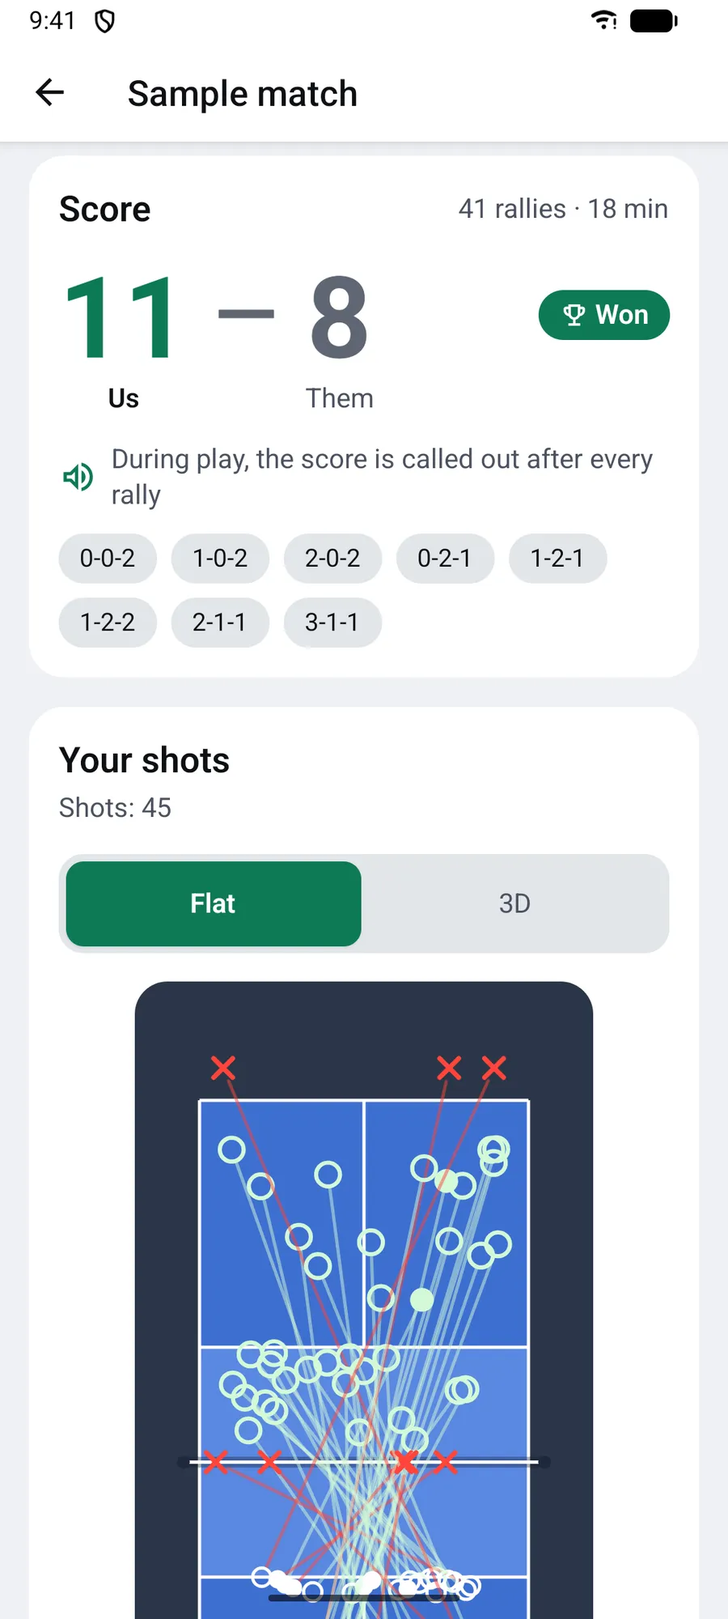
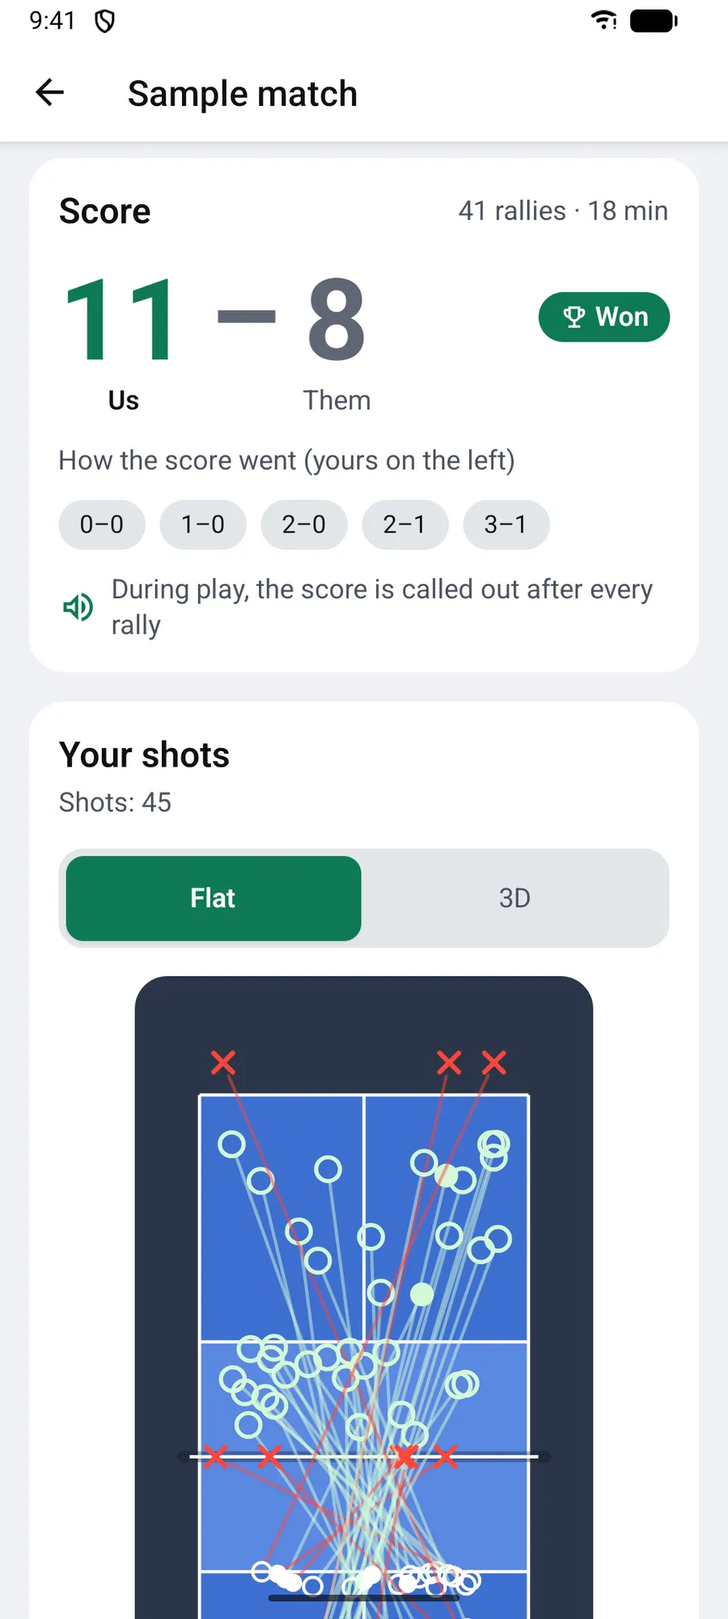
Pickle Up のページの一番上の背景を、エメラルドからティールのやわらかい光と点の格子にし、コートの上に打球の軌道（イン・ミス）を重ねる。スマホの横に、サンプルの数字（イン率 82%・ネットの上 +19cm）の小さなカードを浮かせる。見出しの下の文を「失点したショットが分かれば、意識と練習が変わる。撮影動画から自分の得意や苦手を見つけ、次の練習に役立てることができます。」にし、スコアの画像を「自分」・得点の流れ（自分が左）の画面で撮り直す
Claude-Session: https://claude.ai/code/session_01RcorTwHLSLi3TqpLhpw8hm

diff --git a/ja/apps/pickle-up/index.html b/ja/apps/pickle-up/index.html
@@ -27,7 +27,7 @@
 <link rel="preconnect" href="https://fonts.gstatic.com" crossorigin>
 <link href="https://fonts.googleapis.com/css2?family=Inter:wght@400;500;600;700;800&family=Noto+Sans+JP:wght@400;500;700;800&display=swap" rel="stylesheet">
 <link rel="stylesheet" href="https://cdnjs.cloudflare.com/ajax/libs/remixicon/4.6.0/remixicon.min.css">
-<link rel="stylesheet" href="/assets/css/apps/pickle-up.css?v=8">
+<link rel="stylesheet" href="/assets/css/apps/pickle-up.css?v=9">
 </head>
 <body class="page-home">
 <header class="app-header">
@@ -59,15 +59,17 @@
 </header>
 <main>
 <section class="hero">
-<svg class="court-lines" viewBox="0 0 1200 700" preserveAspectRatio="xMidYMid slice" aria-hidden="true" focusable="false"><path d="M354 565 L682 783 M827 217 L1070 288 M354 565 L827 217 M682 783 L1070 288 M573 403 L871 541 M715 299 L985 397 M500 662 L709 466 M840 344 L941 250" fill="none" stroke="currentColor" stroke-width="2"/><path d="M633 303 L957 426" fill="none" stroke="currentColor" stroke-width="4" stroke-linecap="round"/></svg>
+<svg class="court-lines with-shots" viewBox="0 0 1200 700" preserveAspectRatio="xMidYMid slice" aria-hidden="true" focusable="false"><path class="lines" d="M354 565 L682 783 M827 217 L1070 288 M354 565 L827 217 M682 783 L1070 288 M573 403 L871 541 M715 299 L985 397 M500 662 L709 466 M840 344 L941 250" fill="none" stroke="currentColor" stroke-width="2"/><path class="lines" d="M633 303 L957 426" fill="none" stroke="currentColor" stroke-width="4" stroke-linecap="round"/><defs><linearGradient id="arcFade" x1="0" y1="1" x2="0" y2="0"><stop offset="0" stop-color="#2DD4BF" stop-opacity=".25"/><stop offset="1" stop-color="#6EE7B7" stop-opacity=".9"/></linearGradient></defs><g class="flights"><path class="arc" d="M448 508 L475 482 L501 458 L528 436 L555 415 L581 396 L607 379 L632 363 L657 349 L682 337 L706 326 L729 317 L752 309 L774 303 L795 298 L815 294 L835 292 L853 291 L871 291 L889 293 L905 295 L921 298 L935 303 L949 308 L963 313"/><path class="arc" d="M694 570 L698 543 L703 519 L707 496 L711 475 L715 455 L719 436 L723 419 L727 404 L731 390 L734 377 L738 366 L741 356 L745 347 L748 339 L751 333 L754 327 L757 323 L760 319 L762 317 L765 315 L767 314 L770 314 L772 314 L774 315"/><path class="arc" d="M496 567 L521 529 L547 494 L571 460 L596 430 L620 402 L644 376 L666 353 L688 333 L710 315 L730 299 L750 286 L769 274 L787 265 L804 258 L820 252 L836 248 L850 246 L864 245 L877 246 L889 248 L901 251 L912 255 L922 260 L931 267"/><path class="arc" d="M801 492 L801 477 L801 462 L800 448 L800 435 L799 423 L799 411 L798 401 L798 392 L797 383 L797 375 L797 368 L796 362 L796 357 L795 352 L795 348 L794 345 L794 342 L794 340 L793 339 L793 338 L792 338 L792 339 L792 340 L791 341"/><path class="arc" d="M531 422 L552 407 L573 392 L595 378 L616 365 L637 354 L658 344 L680 335 L701 327 L722 320 L742 314 L762 310 L782 307 L802 304 L821 303 L840 303 L858 304 L876 306 L893 309 L909 313 L925 318 L941 323 L956 329 L970 336 L983 344"/><path class="arc" d="M593 545 L607 509 L621 475 L635 443 L648 414 L661 388 L674 363 L686 341 L698 322 L710 305 L721 289 L732 276 L742 265 L752 256 L761 248 L770 242 L779 237 L787 235 L795 233 L802 233 L809 233 L816 235 L822 238 L828 242 L833 246"/><path class="arc" d="M767 445 L774 436 L781 427 L788 420 L795 413 L802 406 L808 400 L815 395 L822 390 L828 386 L834 383 L841 380 L847 378 L853 376 L859 375 L864 374 L870 374 L876 375 L881 376 L886 378 L891 380 L896 382 L901 385 L905 388 L910 392"/><path class="arc-miss" d="M466 533 L494 493 L522 455 L549 420 L576 387 L602 358 L628 331 L652 307 L676 286 L699 268 L721 252 L742 238 L763 227 L782 218 L800 211 L817 206 L834 202 L849 201 L864 201 L877 202 L890 205 L902 209 L913 213 L924 219 L934 226"/><path class="arc-miss" d="M689 431 L694 427 L699 424 L705 420 L710 417 L715 414 L720 411 L725 408 L731 405 L736 403 L741 400 L746 398 L751 396 L756 394 L760 393 L765 391 L770 390 L775 388 L779 387 L784 386 L789 386 L793 385 L798 384 L802 384 L806 383"/><circle class="end" cx="963" cy="313" r="6"/><circle class="end" cx="774" cy="315" r="6"/><circle class="end" cx="931" cy="267" r="6"/><circle class="end" cx="791" cy="341" r="6"/><circle class="end" cx="983" cy="344" r="6"/><circle class="end" cx="833" cy="246" r="6"/><circle class="end" cx="910" cy="392" r="6"/><path class="end-miss" d="M928 220 L940 232 M940 220 L928 232"/><path class="end-miss" d="M800 377 L812 389 M812 377 L800 389"/></g></svg>
 <div class="wrap hero-grid">
 <div class="hero-copy">
 <h1><span class="phrase">撮るだけで</span><span class="phrase">次の試合が変わる</span></h1>
-<p class="lead">失点したショットが分かれば、意識・練習が変わる。撮影した動画から得意や苦手を見つけ、次の練習に役立てることができます。</p>
+<p class="lead">失点したショットが分かれば、意識と練習が変わる。撮影動画から自分の得意や苦手を見つけ、次の練習に役立てることができます。</p>
 <div class="stores stores-hero"><span class="store"><img src="/images/apps/badges/app-store-ja.svg" alt="App Store からダウンロード" width="131" height="48"></span><span class="store"><img src="/images/apps/badges/google-play-ja.png" alt="Google Play で手に入れよう" width="161" height="48"></span></div><p class="stores-note">近日公開</p>
 </div>
 <div class="hero-media">
 <figure class="phone"><img src="/images/apps/pickle-up/screens/3d-all-ja.webp" alt="サンプルの試合の画面。45本の打球を立体のコートに描き、イン率82%、ネットからの高さの中央値 +19cm を表示している" width="300" height="667" fetchpriority="high"></figure>
+<div class="hero-stat hero-stat-in" aria-hidden="true"><span class="hero-stat-label">イン率</span><span class="hero-stat-value">82%</span><span class="hero-stat-bar"><span style="width:82%"></span></span></div>
+<div class="hero-stat hero-stat-net" aria-hidden="true"><span class="hero-stat-label">ネットの上の高さ（中央値）</span><span class="hero-stat-value">+19 cm</span><svg class="hero-stat-bars" viewBox="0 0 84 28"><rect x="0" y="20" width="10" height="8" rx="2"/><rect x="12" y="12" width="10" height="16" rx="2"/><rect x="24" y="4" width="10" height="24" rx="2"/><rect x="36" y="0" width="10" height="28" rx="2"/><rect x="48" y="9" width="10" height="19" rx="2"/><rect x="60" y="16" width="10" height="12" rx="2"/><rect x="72" y="22" width="10" height="6" rx="2"/></svg></div>
 </div>
 </div>
 </section>
@@ -75,7 +77,7 @@
 <div class="wrap">
 <h2 class="section-title">Pickle Up でできること</h2>
 <article class="feature">
-<div class="feature-media"><div class="carousel carousel-single"><div class="carousel-track"><figure class="slide"><div class="phone"><img src="/images/apps/pickle-up/screens/score-ja.webp" alt="試合の画面。自分たち11点・相手8点で勝ちの表示と、読み上げたスコアコールの一覧" width="300" height="667" loading="lazy" decoding="async"></div><figcaption>どちらが自分たちで、勝ったか負けたかがひと目で分かります。下は試合中に読み上げたスコアです。</figcaption></figure></div></div></div>
+<div class="feature-media"><div class="carousel carousel-single"><div class="carousel-track"><figure class="slide"><div class="phone"><img src="/images/apps/pickle-up/screens/score-ja.webp" alt="試合の画面。自分11点・相手8点で勝ちの表示と、自分の点を左にした得点の流れ" width="300" height="667" loading="lazy" decoding="async"></div><figcaption>どちらが自分で、勝ったか負けたかがひと目で分かります。得点の流れも、いつも自分の点が左です。</figcaption></figure></div></div></div>
 <div class="feature-copy">
 <h3><span class="phrase">スコアはアプリが数えて、</span><span class="phrase">声でコールする</span></h3>
 <p>ラリーが終わるたびに「1-0-2」のようにスコアをコールします。サーブの順番もアプリが覚えているので、プレーを止めて数え直すことはありません。終わった試合はスコアと一緒に記録に残ります。</p>
@@ -119,7 +121,7 @@
 </div>
 </section>
 <section id="download" class="cta">
-<svg class="court-lines" viewBox="0 0 1200 700" preserveAspectRatio="xMidYMid slice" aria-hidden="true" focusable="false"><path d="M354 565 L682 783 M827 217 L1070 288 M354 565 L827 217 M682 783 L1070 288 M573 403 L871 541 M715 299 L985 397 M500 662 L709 466 M840 344 L941 250" fill="none" stroke="currentColor" stroke-width="2"/><path d="M633 303 L957 426" fill="none" stroke="currentColor" stroke-width="4" stroke-linecap="round"/></svg>
+<svg class="court-lines" viewBox="0 0 1200 700" preserveAspectRatio="xMidYMid slice" aria-hidden="true" focusable="false"><path class="lines" d="M354 565 L682 783 M827 217 L1070 288 M354 565 L827 217 M682 783 L1070 288 M573 403 L871 541 M715 299 L985 397 M500 662 L709 466 M840 344 L941 250" fill="none" stroke="currentColor" stroke-width="2"/><path class="lines" d="M633 303 L957 426" fill="none" stroke="currentColor" stroke-width="4" stroke-linecap="round"/></svg>
 <div class="wrap cta-inner">
 <img class="cta-icon" src="/images/apps/pickle-up/icon-256.png" alt="" width="96" height="96">
 <h2><span class="phrase">次の試合から、</span><span class="phrase">分析してみましょう。</span></h2>
@@ -158,9 +160,9 @@
 </div>
 </div>
 </footer>
-<script src="/assets/js/app-menu.js?v=8" defer></script>
-<script src="/assets/js/app-lang.js?v=8" defer></script>
+<script src="/assets/js/app-menu.js?v=9" defer></script>
+<script src="/assets/js/app-lang.js?v=9" defer></script>
 <script>document.querySelectorAll('[data-year]').forEach(function (el) { el.textContent = new Date().getFullYear(); });</script>
-<script src="/assets/js/app-carousel.js?v=8" defer></script>
+<script src="/assets/js/app-carousel.js?v=9" defer></script>
 </body>
 </html>

diff --git a/en/apps/pickle-up/index.html b/en/apps/pickle-up/index.html
@@ -27,7 +27,7 @@
 <link rel="preconnect" href="https://fonts.gstatic.com" crossorigin>
 <link href="https://fonts.googleapis.com/css2?family=Inter:wght@400;500;600;700;800&family=Noto+Sans+JP:wght@400;500;700;800&display=swap" rel="stylesheet">
 <link rel="stylesheet" href="https://cdnjs.cloudflare.com/ajax/libs/remixicon/4.6.0/remixicon.min.css">
-<link rel="stylesheet" href="/assets/css/apps/pickle-up.css?v=8">
+<link rel="stylesheet" href="/assets/css/apps/pickle-up.css?v=9">
 </head>
 <body class="page-home">
 <header class="app-header">
@@ -59,7 +59,7 @@
 </header>
 <main>
 <section class="hero">
-<svg class="court-lines" viewBox="0 0 1200 700" preserveAspectRatio="xMidYMid slice" aria-hidden="true" focusable="false"><path d="M354 565 L682 783 M827 217 L1070 288 M354 565 L827 217 M682 783 L1070 288 M573 403 L871 541 M715 299 L985 397 M500 662 L709 466 M840 344 L941 250" fill="none" stroke="currentColor" stroke-width="2"/><path d="M633 303 L957 426" fill="none" stroke="currentColor" stroke-width="4" stroke-linecap="round"/></svg>
+<svg class="court-lines with-shots" viewBox="0 0 1200 700" preserveAspectRatio="xMidYMid slice" aria-hidden="true" focusable="false"><path class="lines" d="M354 565 L682 783 M827 217 L1070 288 M354 565 L827 217 M682 783 L1070 288 M573 403 L871 541 M715 299 L985 397 M500 662 L709 466 M840 344 L941 250" fill="none" stroke="currentColor" stroke-width="2"/><path class="lines" d="M633 303 L957 426" fill="none" stroke="currentColor" stroke-width="4" stroke-linecap="round"/><defs><linearGradient id="arcFade" x1="0" y1="1" x2="0" y2="0"><stop offset="0" stop-color="#2DD4BF" stop-opacity=".25"/><stop offset="1" stop-color="#6EE7B7" stop-opacity=".9"/></linearGradient></defs><g class="flights"><path class="arc" d="M448 508 L475 482 L501 458 L528 436 L555 415 L581 396 L607 379 L632 363 L657 349 L682 337 L706 326 L729 317 L752 309 L774 303 L795 298 L815 294 L835 292 L853 291 L871 291 L889 293 L905 295 L921 298 L935 303 L949 308 L963 313"/><path class="arc" d="M694 570 L698 543 L703 519 L707 496 L711 475 L715 455 L719 436 L723 419 L727 404 L731 390 L734 377 L738 366 L741 356 L745 347 L748 339 L751 333 L754 327 L757 323 L760 319 L762 317 L765 315 L767 314 L770 314 L772 314 L774 315"/><path class="arc" d="M496 567 L521 529 L547 494 L571 460 L596 430 L620 402 L644 376 L666 353 L688 333 L710 315 L730 299 L750 286 L769 274 L787 265 L804 258 L820 252 L836 248 L850 246 L864 245 L877 246 L889 248 L901 251 L912 255 L922 260 L931 267"/><path class="arc" d="M801 492 L801 477 L801 462 L800 448 L800 435 L799 423 L799 411 L798 401 L798 392 L797 383 L797 375 L797 368 L796 362 L796 357 L795 352 L795 348 L794 345 L794 342 L794 340 L793 339 L793 338 L792 338 L792 339 L792 340 L791 341"/><path class="arc" d="M531 422 L552 407 L573 392 L595 378 L616 365 L637 354 L658 344 L680 335 L701 327 L722 320 L742 314 L762 310 L782 307 L802 304 L821 303 L840 303 L858 304 L876 306 L893 309 L909 313 L925 318 L941 323 L956 329 L970 336 L983 344"/><path class="arc" d="M593 545 L607 509 L621 475 L635 443 L648 414 L661 388 L674 363 L686 341 L698 322 L710 305 L721 289 L732 276 L742 265 L752 256 L761 248 L770 242 L779 237 L787 235 L795 233 L802 233 L809 233 L816 235 L822 238 L828 242 L833 246"/><path class="arc" d="M767 445 L774 436 L781 427 L788 420 L795 413 L802 406 L808 400 L815 395 L822 390 L828 386 L834 383 L841 380 L847 378 L853 376 L859 375 L864 374 L870 374 L876 375 L881 376 L886 378 L891 380 L896 382 L901 385 L905 388 L910 392"/><path class="arc-miss" d="M466 533 L494 493 L522 455 L549 420 L576 387 L602 358 L628 331 L652 307 L676 286 L699 268 L721 252 L742 238 L763 227 L782 218 L800 211 L817 206 L834 202 L849 201 L864 201 L877 202 L890 205 L902 209 L913 213 L924 219 L934 226"/><path class="arc-miss" d="M689 431 L694 427 L699 424 L705 420 L710 417 L715 414 L720 411 L725 408 L731 405 L736 403 L741 400 L746 398 L751 396 L756 394 L760 393 L765 391 L770 390 L775 388 L779 387 L784 386 L789 386 L793 385 L798 384 L802 384 L806 383"/><circle class="end" cx="963" cy="313" r="6"/><circle class="end" cx="774" cy="315" r="6"/><circle class="end" cx="931" cy="267" r="6"/><circle class="end" cx="791" cy="341" r="6"/><circle class="end" cx="983" cy="344" r="6"/><circle class="end" cx="833" cy="246" r="6"/><circle class="end" cx="910" cy="392" r="6"/><path class="end-miss" d="M928 220 L940 232 M940 220 L928 232"/><path class="end-miss" d="M800 377 L812 389 M812 377 L800 389"/></g></svg>
 <div class="wrap hero-grid">
 <div class="hero-copy">
 <h1><span class="phrase">Just film it.</span><span class="phrase">Play better next game.</span></h1>
@@ -68,6 +68,8 @@
 </div>
 <div class="hero-media">
 <figure class="phone"><img src="/images/apps/pickle-up/screens/3d-all-en.webp" alt="The sample match: 45 shots drawn on a 3D court, with an 82% in rate and a median height over the net of +19 cm" width="300" height="667" fetchpriority="high"></figure>
+<div class="hero-stat hero-stat-in" aria-hidden="true"><span class="hero-stat-label">In rate</span><span class="hero-stat-value">82%</span><span class="hero-stat-bar"><span style="width:82%"></span></span></div>
+<div class="hero-stat hero-stat-net" aria-hidden="true"><span class="hero-stat-label">Height over the net (median)</span><span class="hero-stat-value">+19 cm</span><svg class="hero-stat-bars" viewBox="0 0 84 28"><rect x="0" y="20" width="10" height="8" rx="2"/><rect x="12" y="12" width="10" height="16" rx="2"/><rect x="24" y="4" width="10" height="24" rx="2"/><rect x="36" y="0" width="10" height="28" rx="2"/><rect x="48" y="9" width="10" height="19" rx="2"/><rect x="60" y="16" width="10" height="12" rx="2"/><rect x="72" y="22" width="10" height="6" rx="2"/></svg></div>
 </div>
 </div>
 </section>
@@ -75,7 +77,7 @@
 <div class="wrap">
 <h2 class="section-title">What it does</h2>
 <article class="feature">
-<div class="feature-media"><div class="carousel carousel-single"><div class="carousel-track"><figure class="slide"><div class="phone"><img src="/images/apps/pickle-up/screens/score-en.webp" alt="The match screen: won 11–8, with the calls made during the game" width="300" height="667" loading="lazy" decoding="async"></div><figcaption>See at a glance which side is yours and whether you won. Below are the calls made during play.</figcaption></figure></div></div></div>
+<div class="feature-media"><div class="carousel carousel-single"><div class="carousel-track"><figure class="slide"><div class="phone"><img src="/images/apps/pickle-up/screens/score-en.webp" alt="The match screen: won 11–8, with how the score went, yours on the left" width="300" height="667" loading="lazy" decoding="async"></div><figcaption>See at a glance which side is yours and whether you won. The score’s progress keeps yours on the left too.</figcaption></figure></div></div></div>
 <div class="feature-copy">
 <h3>It keeps score and calls it out</h3>
 <p>After every rally it calls the score, like “1-0-2”. It keeps track of who serves, so nobody has to stop and recount. When the game ends, the score goes into your history.</p>
@@ -119,7 +121,7 @@
 </div>
 </section>
 <section id="download" class="cta">
-<svg class="court-lines" viewBox="0 0 1200 700" preserveAspectRatio="xMidYMid slice" aria-hidden="true" focusable="false"><path d="M354 565 L682 783 M827 217 L1070 288 M354 565 L827 217 M682 783 L1070 288 M573 403 L871 541 M715 299 L985 397 M500 662 L709 466 M840 344 L941 250" fill="none" stroke="currentColor" stroke-width="2"/><path d="M633 303 L957 426" fill="none" stroke="currentColor" stroke-width="4" stroke-linecap="round"/></svg>
+<svg class="court-lines" viewBox="0 0 1200 700" preserveAspectRatio="xMidYMid slice" aria-hidden="true" focusable="false"><path class="lines" d="M354 565 L682 783 M827 217 L1070 288 M354 565 L827 217 M682 783 L1070 288 M573 403 L871 541 M715 299 L985 397 M500 662 L709 466 M840 344 L941 250" fill="none" stroke="currentColor" stroke-width="2"/><path class="lines" d="M633 303 L957 426" fill="none" stroke="currentColor" stroke-width="4" stroke-linecap="round"/></svg>
 <div class="wrap cta-inner">
 <img class="cta-icon" src="/images/apps/pickle-up/icon-256.png" alt="" width="96" height="96">
 <h2>Try it at your next game.</h2>
@@ -158,9 +160,9 @@
 </div>
 </div>
 </footer>
-<script src="/assets/js/app-menu.js?v=8" defer></script>
-<script src="/assets/js/app-lang.js?v=8" defer></script>
+<script src="/assets/js/app-menu.js?v=9" defer></script>
+<script src="/assets/js/app-lang.js?v=9" defer></script>
 <script>document.querySelectorAll('[data-year]').forEach(function (el) { el.textContent = new Date().getFullYear(); });</script>
-<script src="/assets/js/app-carousel.js?v=8" defer></script>
+<script src="/assets/js/app-carousel.js?v=9" defer></script>
 </body>
 </html>

diff --git a/assets/css/apps/pickle-up.css b/assets/css/apps/pickle-up.css
@@ -73,6 +73,36 @@ img { max-width: 100%; height: auto; }
 /* Hero: dark, with the court's lines behind */
 .hero, .cta, .section-dark { position: relative; overflow: hidden; background: var(--ink); color: var(--on-ink); }
 .court-lines { position: absolute; inset: 0; width: 100%; height: 100%; color: var(--mint); opacity: .09; pointer-events: none; }
+/* The hero: a soft emerald-to-teal light behind the phone and a faint dot grid, the court with a few shot
+   flights over it, and two of the sample's numbers floating beside the phone. */
+.hero { background:
+  radial-gradient(55% 75% at 80% 45%, rgba(16,185,129,.38), rgba(16,185,129,0) 70%),
+  radial-gradient(35% 45% at 100% 100%, rgba(45,212,191,.22), rgba(45,212,191,0) 70%),
+  radial-gradient(45% 55% at 0% 0%, rgba(56,189,248,.10), rgba(56,189,248,0) 70%),
+  var(--ink); }
+.hero::before { content: ""; position: absolute; inset: 0; pointer-events: none;
+  background-image: radial-gradient(rgba(255,255,255,.10) 1px, transparent 1.4px); background-size: 22px 22px;
+  -webkit-mask-image: radial-gradient(70% 80% at 75% 45%, #000, transparent 75%); mask-image: radial-gradient(70% 80% at 75% 45%, #000, transparent 75%); }
+.court-lines.with-shots { opacity: 1; }
+.court-lines.with-shots .lines { opacity: .14; }
+.flights .arc, .flights .arc-miss { fill: none; stroke-width: 2.5; stroke-linecap: round; }
+.flights .arc { stroke: url(#arcFade); opacity: .5; }
+.flights .arc-miss { stroke: #FB7185; opacity: .4; }
+.flights .end { fill: none; stroke: #6EE7B7; stroke-width: 2.5; opacity: .6; }
+.flights .end-miss { stroke: #FB7185; stroke-width: 3; stroke-linecap: round; opacity: .6; }
+.hero-stat { position: absolute; z-index: 1; display: grid; gap: .25rem; min-width: 9.5rem; padding: .875rem 1rem; border-radius: 16px;
+  background: rgba(23,26,32,.72); border: 1px solid rgba(255,255,255,.10); box-shadow: 0 18px 40px -18px rgba(0,0,0,.6);
+  -webkit-backdrop-filter: blur(14px) saturate(140%); backdrop-filter: blur(14px) saturate(140%); }
+.hero-stat-label { font-size: .75rem; color: var(--on-ink-muted); }
+.hero-stat-value { font-size: 1.5rem; font-weight: 800; letter-spacing: -.01em; color: var(--on-ink); font-variant-numeric: tabular-nums; }
+.hero-stat-bar { display: block; height: 6px; border-radius: 999px; background: rgba(255,255,255,.10); overflow: hidden; }
+.hero-stat-bar span { display: block; height: 100%; border-radius: inherit; background: linear-gradient(90deg, #2DD4BF, #6EE7B7); }
+.hero-stat-bars { width: 84px; height: 28px; fill: #6EE7B7; opacity: .85; }
+.hero-stat-bars rect:nth-child(4) { fill: #A7F3D0; }
+.hero-stat-in { left: 0; top: 18%; }
+.hero-stat-net { right: 0; bottom: 14%; }
+@media (max-width: 599px) { .hero-stat { display: none; } }
+@media (min-width: 600px) and (max-width: 899px) { .hero-stat-in { left: calc(50% - 300px); } .hero-stat-net { right: calc(50% - 300px); } }
 .hero-grid { position: relative; display: grid; gap: 3rem; align-items: center; padding-top: 3.5rem; padding-bottom: 4rem; }
 .hero .eyebrow, .section-dark .eyebrow, .cta .eyebrow { color: var(--mint); }
 .hero h1 { margin: 0 0 1.25rem; font-size: clamp(2.375rem, 6.4vw, 4.25rem); line-height: 1.12; font-weight: 800; letter-spacing: -.025em; }

diff --git a/ja/apps/pickle-up/support/index.html b/ja/apps/pickle-up/support/index.html
@@ -27,7 +27,7 @@
 <link rel="preconnect" href="https://fonts.gstatic.com" crossorigin>
 <link href="https://fonts.googleapis.com/css2?family=Inter:wght@400;500;600;700;800&family=Noto+Sans+JP:wght@400;500;700;800&display=swap" rel="stylesheet">
 <link rel="stylesheet" href="https://cdnjs.cloudflare.com/ajax/libs/remixicon/4.6.0/remixicon.min.css">
-<link rel="stylesheet" href="/assets/css/apps/pickle-up.css?v=8">
+<link rel="stylesheet" href="/assets/css/apps/pickle-up.css?v=9">
 </head>
 <body class="page-doc">
 <header class="app-header">
@@ -78,7 +78,7 @@
 <button type="submit" class="button">メールで送る<i class="ri-mail-send-line" aria-hidden="true"></i></button>
 </form>
 </section>
-<script src="/assets/js/app-contact.js?v=8" defer></script>
+<script src="/assets/js/app-contact.js?v=9" defer></script>
 </div>
 </main>
 <footer class="app-footer">
@@ -111,8 +111,8 @@
 </div>
 </div>
 </footer>
-<script src="/assets/js/app-menu.js?v=8" defer></script>
-<script src="/assets/js/app-lang.js?v=8" defer></script>
+<script src="/assets/js/app-menu.js?v=9" defer></script>
+<script src="/assets/js/app-lang.js?v=9" defer></script>
 <script>document.querySelectorAll('[data-year]').forEach(function (el) { el.textContent = new Date().getFullYear(); });</script>
 </body>
 </html>

diff --git a/en/apps/pickle-up/support/index.html b/en/apps/pickle-up/support/index.html
@@ -27,7 +27,7 @@
 <link rel="preconnect" href="https://fonts.gstatic.com" crossorigin>
 <link href="https://fonts.googleapis.com/css2?family=Inter:wght@400;500;600;700;800&family=Noto+Sans+JP:wght@400;500;700;800&display=swap" rel="stylesheet">
 <link rel="stylesheet" href="https://cdnjs.cloudflare.com/ajax/libs/remixicon/4.6.0/remixicon.min.css">
-<link rel="stylesheet" href="/assets/css/apps/pickle-up.css?v=8">
+<link rel="stylesheet" href="/assets/css/apps/pickle-up.css?v=9">
 </head>
 <body class="page-doc">
 <header class="app-header">
@@ -78,7 +78,7 @@
 <button type="submit" class="button">Continue to email<i class="ri-mail-send-line" aria-hidden="true"></i></button>
 </form>
 </section>
-<script src="/assets/js/app-contact.js?v=8" defer></script>
+<script src="/assets/js/app-contact.js?v=9" defer></script>
 </div>
 </main>
 <footer class="app-footer">
@@ -111,8 +111,8 @@
 </div>
 </div>
 </footer>
-<script src="/assets/js/app-menu.js?v=8" defer></script>
-<script src="/assets/js/app-lang.js?v=8" defer></script>
+<script src="/assets/js/app-menu.js?v=9" defer></script>
+<script src="/assets/js/app-lang.js?v=9" defer></script>
 <script>document.querySelectorAll('[data-year]').forEach(function (el) { el.textContent = new Date().getFullYear(); });</script>
 </body>
 </html>

diff --git a/en/apps/pickle-up/privacy/index.html b/en/apps/pickle-up/privacy/index.html
@@ -27,7 +27,7 @@
 <link rel="preconnect" href="https://fonts.gstatic.com" crossorigin>
 <link href="https://fonts.googleapis.com/css2?family=Inter:wght@400;500;600;700;800&family=Noto+Sans+JP:wght@400;500;700;800&display=swap" rel="stylesheet">
 <link rel="stylesheet" href="https://cdnjs.cloudflare.com/ajax/libs/remixicon/4.6.0/remixicon.min.css">
-<link rel="stylesheet" href="/assets/css/apps/pickle-up.css?v=8">
+<link rel="stylesheet" href="/assets/css/apps/pickle-up.css?v=9">
 </head>
 <body class="page-doc">
 <header class="app-header">
@@ -182,8 +182,8 @@
 </div>
 </div>
 </footer>
-<script src="/assets/js/app-menu.js?v=8" defer></script>
-<script src="/assets/js/app-lang.js?v=8" defer></script>
+<script src="/assets/js/app-menu.js?v=9" defer></script>
+<script src="/assets/js/app-lang.js?v=9" defer></script>
 <script>document.querySelectorAll('[data-year]').forEach(function (el) { el.textContent = new Date().getFullYear(); });</script>
 </body>
 </html>

diff --git a/ja/apps/pickle-up/privacy/index.html b/ja/apps/pickle-up/privacy/index.html
@@ -27,7 +27,7 @@
 <link rel="preconnect" href="https://fonts.gstatic.com" crossorigin>
 <link href="https://fonts.googleapis.com/css2?family=Inter:wght@400;500;600;700;800&family=Noto+Sans+JP:wght@400;500;700;800&display=swap" rel="stylesheet">
 <link rel="stylesheet" href="https://cdnjs.cloudflare.com/ajax/libs/remixicon/4.6.0/remixicon.min.css">
-<link rel="stylesheet" href="/assets/css/apps/pickle-up.css?v=8">
+<link rel="stylesheet" href="/assets/css/apps/pickle-up.css?v=9">
 </head>
 <body class="page-doc">
 <header class="app-header">
@@ -182,8 +182,8 @@
 </div>
 </div>
 </footer>
-<script src="/assets/js/app-menu.js?v=8" defer></script>
-<script src="/assets/js/app-lang.js?v=8" defer></script>
+<script src="/assets/js/app-menu.js?v=9" defer></script>
+<script src="/assets/js/app-lang.js?v=9" defer></script>
 <script>document.querySelectorAll('[data-year]').forEach(function (el) { el.textContent = new Date().getFullYear(); });</script>
 </body>
 </html>

diff --git a/scripts/app_pages/build.py b/scripts/app_pages/build.py
@@ -16,7 +16,7 @@ LANGS = ('ja', 'en')
 OTHER = {'ja': 'en', 'en': 'ja'}
 LANG_LABEL = {'ja': '日本語', 'en': 'English'}
 OG_LOCALE = {'ja': 'ja_JP', 'en': 'en_US'}
-CSS_VERSION = 8
+CSS_VERSION = 9
 
 
 def read(path):
@@ -240,11 +240,16 @@ class App:
         faq = ''.join(f'<details><summary>{e(q)}<i class="ri-add-line" aria-hidden="true"></i></summary><p>{e(a)}</p></details>'
                       for q, a in t['faq']['items'])
         court = court_lines_svg()
+        hero_court = court_lines_svg(shots=True)
+        # Two of the sample's numbers beside the phone: decorative, as its screen shows them too.
+        (in_label, in_value), (net_label, net_value) = h['stats']
+        stats = f'''<div class="hero-stat hero-stat-in" aria-hidden="true"><span class="hero-stat-label">{e(in_label)}</span><span class="hero-stat-value">{e(in_value)}</span><span class="hero-stat-bar"><span style="width:82%"></span></span></div>
+<div class="hero-stat hero-stat-net" aria-hidden="true"><span class="hero-stat-label">{e(net_label)}</span><span class="hero-stat-value">{e(net_value)}</span><svg class="hero-stat-bars" viewBox="0 0 84 28"><rect x="0" y="20" width="10" height="8" rx="2"/><rect x="12" y="12" width="10" height="16" rx="2"/><rect x="24" y="4" width="10" height="24" rx="2"/><rect x="36" y="0" width="10" height="28" rx="2"/><rect x="48" y="9" width="10" height="19" rx="2"/><rect x="60" y="16" width="10" height="12" rx="2"/><rect x="72" y="22" width="10" height="6" rx="2"/></svg></div>'''
         body = f'''<body class="page-home">
 {self.header(lang, path, True)}
 <main>
 <section class="hero">
-{court}
+{hero_court}
 <div class="wrap hero-grid">
 <div class="hero-copy">
 <h1>{title}</h1>
@@ -253,6 +258,7 @@ class App:
 </div>
 <div class="hero-media">
 {self.phone(h['screen'], h['screenAlt'], lang, eager=True)}
+{stats}
 </div>
 </div>
 </section>
@@ -378,9 +384,11 @@ class App:
         return self.document(lang, 'privacy/', p, inner)
 
 
-def court_lines_svg():
+def court_lines_svg(shots=False):
     # A court seen at an angle, as in the app's 3D view (the same camera: up behind the near right corner,
     # looking at the net), faint behind the hero and the closing call. Court metres: across, depth, height.
+    # shots: also a few shots' flights over it (from the near court to the far one, two of them misses), as
+    # the app draws them, so the hero reads as a match being measured.
     import math
     W, L, NET, K = 6.1, 13.41, 6.705, 2.13
     eye, target = (W + 4, -4.0, 10.0), (W / 2, NET, 0.0)
@@ -401,9 +409,33 @@ def court_lines_svg():
              ((W / 2, 0), (W / 2, NET - K)), ((W / 2, NET + K), (W / 2, L))]
     court = ' '.join(f'M{at(*a)} L{at(*b)}' for a, b in lines)
     net = f'M{at(-0.3, NET, 0.914)} L{at(W + 0.3, NET, 0.914)}'
-    return (f'<svg class="court-lines" viewBox="0 0 1200 700" preserveAspectRatio="xMidYMid slice" aria-hidden="true" focusable="false">'
-            f'<path d="{court}" fill="none" stroke="currentColor" stroke-width="2"/>'
-            f'<path d="{net}" fill="none" stroke="currentColor" stroke-width="4" stroke-linecap="round"/></svg>')
+    flights = ''
+    if shots:
+        # (hit x, hit y), (end x, end y), apex height (m), missed. Ends past the baseline or on the net are misses.
+        plan = [((1.2, 1.0), (4.6, 11.2), 2.2, False), ((4.8, 2.0), (1.4, 9.0), 1.7, False),
+                ((2.6, 0.6), (3.2, 12.6), 2.6, False), ((5.2, 4.0), (2.2, 8.4), 1.4, False),
+                ((0.8, 3.0), (5.4, 10.4), 2.0, False), ((3.4, 1.6), (0.9, 12.2), 2.4, False),
+                ((4.2, 4.6), (4.9, 8.2), 1.3, False), ((1.8, 0.8), (2.4, 14.4), 2.8, True),
+                ((3.0, 4.2), (3.6, NET), 1.0, True)]
+        paths, ends = [], []
+        for (hx, hy), (ex, ey), top, miss in plan:
+            pts = []
+            for i in range(25):
+                s = i / 24
+                # A parabola through the hit (1 m up), the apex and the end (on the ground; a net miss stops at the tape).
+                z0, z1 = 1.0, 0.6 if ey == NET else 0.0
+                z = (1 - s) * z0 + s * z1 + 4 * (top - (z0 + z1) / 2) * s * (1 - s)
+                pts.append(at(hx + (ex - hx) * s, hy + (ey - hy) * s, z))
+            paths.append(f'<path class="{"arc-miss" if miss else "arc"}" d="M{" L".join(pts)}"/>')
+            x, y = map(float, at(ex, ey, 0.6 if ey == NET else 0.0).split())
+            ends.append(f'<path class="end-miss" d="M{x - 6:.0f} {y - 6:.0f} L{x + 6:.0f} {y + 6:.0f} M{x + 6:.0f} {y - 6:.0f} L{x - 6:.0f} {y + 6:.0f}"/>'
+                        if miss else f'<circle class="end" cx="{x:.0f}" cy="{y:.0f}" r="6"/>')
+        flights = ('<defs><linearGradient id="arcFade" x1="0" y1="1" x2="0" y2="0">'
+                   '<stop offset="0" stop-color="#2DD4BF" stop-opacity=".25"/><stop offset="1" stop-color="#6EE7B7" stop-opacity=".9"/>'
+                   f'</linearGradient></defs><g class="flights">{"".join(paths)}{"".join(ends)}</g>')
+    return (f'<svg class="court-lines{" with-shots" if shots else ""}" viewBox="0 0 1200 700" preserveAspectRatio="xMidYMid slice" aria-hidden="true" focusable="false">'
+            f'<path class="lines" d="{court}" fill="none" stroke="currentColor" stroke-width="2"/>'
+            f'<path class="lines" d="{net}" fill="none" stroke="currentColor" stroke-width="4" stroke-linecap="round"/>{flights}</svg>')
 
 
 # --------------------------------------------------------------------------------------- language-neutral URLs

diff --git a/scripts/app_pages/pickle_up.py b/scripts/app_pages/pickle_up.py
@@ -31,9 +31,11 @@ JA = {
     'carousel': {'prev': '前の画面', 'next': '次の画面', 'slide': '{n}枚目'},
     'hero': {
         'title': ['撮るだけで', '次の試合が変わる'],
-        'lead': '失点したショットが分かれば、意識・練習が変わる。撮影した動画から得意や苦手を見つけ、次の練習に役立てることができます。',
+        'lead': '失点したショットが分かれば、意識と練習が変わる。撮影動画から自分の得意や苦手を見つけ、次の練習に役立てることができます。',
         'screen': '3d-all',
         'screenAlt': 'サンプルの試合の画面。45本の打球を立体のコートに描き、イン率82%、ネットからの高さの中央値 +19cm を表示している',
+        # Beside the phone (decorative: the same numbers as its screen).
+        'stats': [('イン率', '82%'), ('ネットの上の高さ（中央値）', '+19 cm')],
     },
     'features': {
         'title': 'Pickle Up でできること',
@@ -43,7 +45,7 @@ JA = {
                 'body': 'ラリーが終わるたびに「1-0-2」のようにスコアをコールします。サーブの順番もアプリが覚えているので、プレーを止めて数え直すことはありません。終わった試合はスコアと一緒に記録に残ります。',
                 'note': 'サイドアウト制とラリーポイント制に対応しています。コールは英語で、日本語にも切り替えられます。',
                 'slides': [
-                    ('score', 'どちらが自分たちで、勝ったか負けたかがひと目で分かります。下は試合中に読み上げたスコアです。', '試合の画面。自分たち11点・相手8点で勝ちの表示と、読み上げたスコアコールの一覧'),
+                    ('score', 'どちらが自分で、勝ったか負けたかがひと目で分かります。得点の流れも、いつも自分の点が左です。', '試合の画面。自分11点・相手8点で勝ちの表示と、自分の点を左にした得点の流れ'),
                 ],
             },
             {
@@ -166,6 +168,7 @@ EN = {
         'lead': 'See the shots that lose you points, and your game changes. Your video shows your strengths and weak spots to practise.',
         'screen': '3d-all',
         'screenAlt': 'The sample match: 45 shots drawn on a 3D court, with an 82% in rate and a median height over the net of +19 cm',
+        'stats': [('In rate', '82%'), ('Height over the net (median)', '+19 cm')],
     },
     'features': {
         'title': 'What it does',
@@ -175,7 +178,7 @@ EN = {
                 'body': 'After every rally it calls the score, like “1-0-2”. It keeps track of who serves, so nobody has to stop and recount. When the game ends, the score goes into your history.',
                 'note': 'Side-out and rally scoring. Calls are in English, and you can switch them to Japanese.',
                 'slides': [
-                    ('score', 'See at a glance which side is yours and whether you won. Below are the calls made during play.', 'The match screen: won 11–8, with the calls made during the game'),
+                    ('score', 'See at a glance which side is yours and whether you won. The score’s progress keeps yours on the left too.', 'The match screen: won 11–8, with how the score went, yours on the left'),
                 ],
             },
             {
